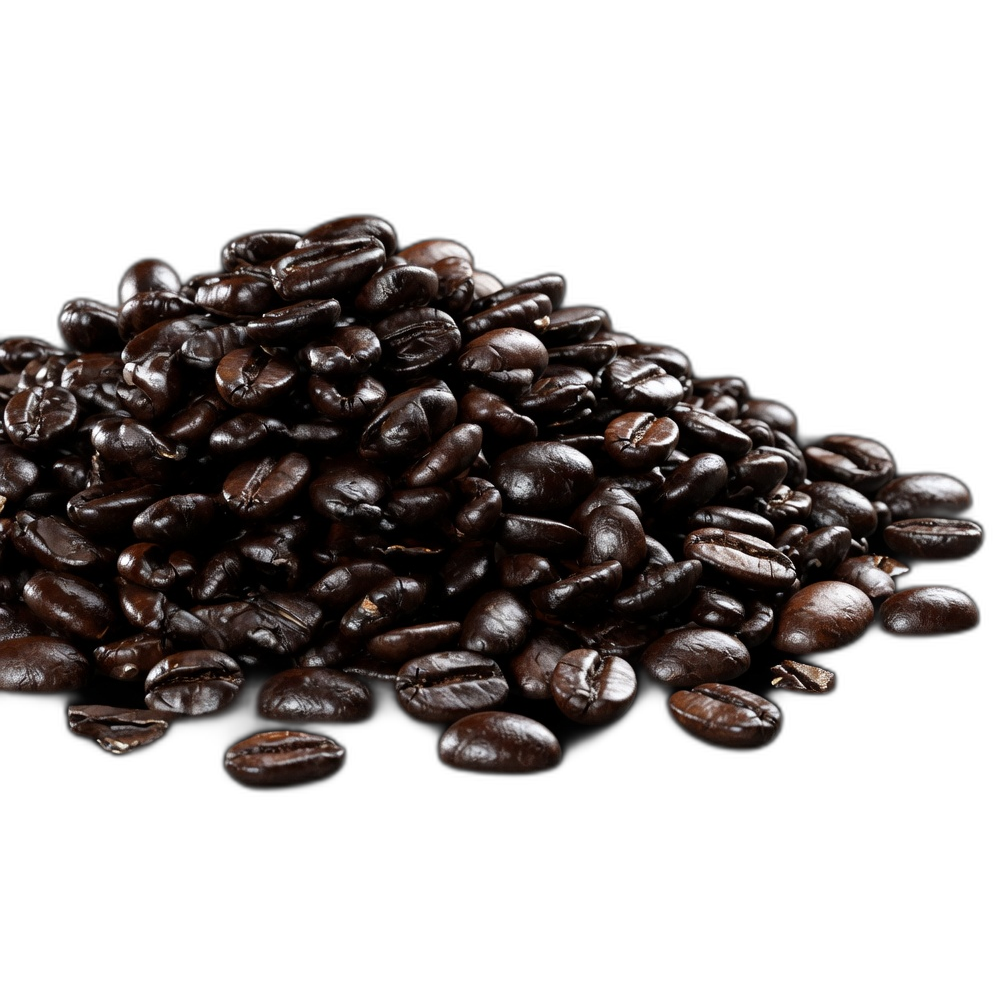
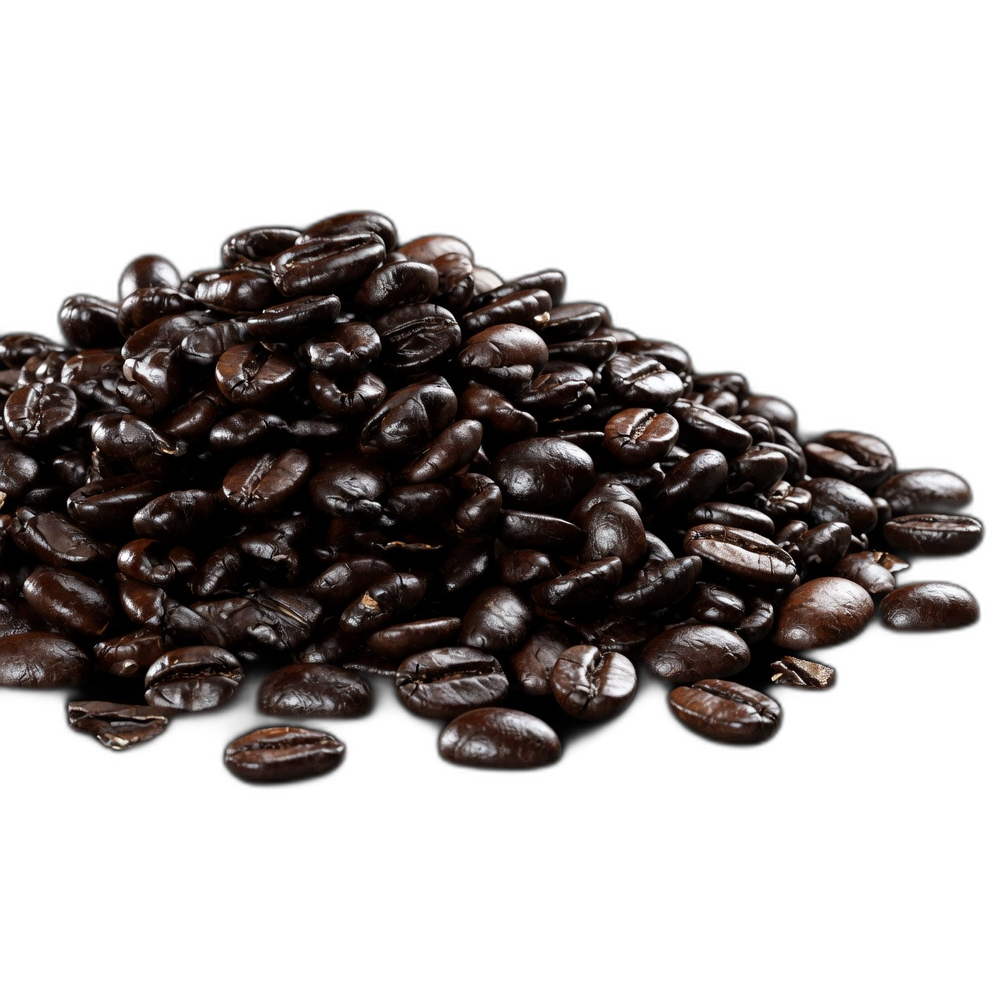
Keep energy props on one ring and stop coffee clipping.
Coffee, wheat and soy share a single ellipse around the barrel at the same speed. The pile stays inside the right rail.

Changed region(s): [[0.0, 0.1864, 0.994, 0.8076]]

diff --git a/app/globals.css b/app/globals.css
@@ -3810,10 +3810,12 @@ a {
   justify-content: center;
   width: 100%;
   min-height: var(--component-energy-field-well-height);
+  overflow: visible;
 }
 
 .ui-energy-well {
   width: min(100%, var(--component-energy-field-well-width));
+  overflow: visible;
   transform: perspective(var(--component-energy-field-grid-perspective))
     rotateX(var(--well-x, 0deg)) rotateY(var(--well-y, 0deg));
   transform-style: preserve-3d;
@@ -3895,66 +3897,49 @@ a {
 
 .ui-energy-well__sat {
   position: absolute;
-  inset: 0;
+  left: 0;
+  top: 0;
+  width: var(--component-energy-field-size-lg);
+  height: var(--component-energy-field-size-lg);
+  offset-path: ellipse(34% 20% at 50% 54%);
   offset-rotate: 0deg;
   offset-anchor: center;
-  animation: ui-energy-orbit var(--orbit-dur, 24s) linear var(--orbit-delay, 0s) infinite;
-  animation-direction: var(--orbit-dir, normal);
+  animation: ui-energy-orbit var(--component-energy-field-ticker-duration) linear var(--orbit-delay, 0s) infinite;
   filter: drop-shadow(var(--component-energy-field-shadow));
 }
 
-.ui-energy-well__sat img {
-  animation: ui-energy-sat-sway var(--component-energy-field-duration-drift) var(--motion-easing-standard) infinite;
-}
-
-.ui-energy-well__sat--coffee {
-  width: var(--component-energy-field-size-xl);
-  height: var(--component-energy-field-size-xl);
-  offset-path: ellipse(54% 34% at 50% 52%);
-}
-
-.ui-energy-well__sat--wheat {
-  width: var(--component-energy-field-size-lg);
-  height: var(--component-energy-field-size-lg);
-  offset-path: ellipse(46% 40% at 50% 48%);
-}
-
+.ui-energy-well__sat--coffee,
+.ui-energy-well__sat--wheat,
 .ui-energy-well__sat--soy {
   width: var(--component-energy-field-size-lg);
   height: var(--component-energy-field-size-lg);
-  offset-path: ellipse(40% 22% at 50% 58%);
 }
 
 @keyframes ui-energy-orbit {
   0% {
     offset-distance: 0%;
-    transform: scale(0.9);
+    transform: scale(0.94);
     z-index: 2;
-    opacity: 0.92;
   }
   25% {
     offset-distance: 25%;
-    transform: scale(1.12);
+    transform: scale(1.04);
     z-index: 4;
-    opacity: 1;
   }
   50% {
     offset-distance: 50%;
-    transform: scale(0.88);
+    transform: scale(0.94);
     z-index: 2;
-    opacity: 0.9;
   }
   75% {
     offset-distance: 75%;
-    transform: scale(0.62);
+    transform: scale(0.78);
     z-index: 1;
-    opacity: 0.72;
   }
   100% {
     offset-distance: 100%;
-    transform: scale(0.9);
+    transform: scale(0.94);
     z-index: 2;
-    opacity: 0.92;
   }
 }
 
@@ -3965,16 +3950,6 @@ a {
   }
   50% {
     transform: translate(-50%, -50%) rotate(2deg) translateY(calc(var(--component-energy-field-float) * -0.45));
-  }
-}
-
-@keyframes ui-energy-sat-sway {
-  0%,
-  100% {
-    transform: rotate(-6deg);
-  }
-  50% {
-    transform: rotate(8deg);
   }
 }
 
@@ -5364,15 +5339,15 @@ a {
   }
 
   .ui-energy-well__sat--coffee {
-    offset-distance: 12%;
+    offset-distance: 0%;
   }
 
   .ui-energy-well__sat--wheat {
-    offset-distance: 58%;
+    offset-distance: 33%;
   }
 
   .ui-energy-well__sat--soy {
-    offset-distance: 82%;
+    offset-distance: 66%;
   }
 
   .ui-coin-field__coin {
@@ -5762,15 +5737,9 @@ a {
     height: var(--component-energy-field-size-xl);
   }
 
-  .ui-energy-well__sat--coffee {
+  .ui-energy-well__sat {
     width: var(--component-energy-field-size-sm);
     height: var(--component-energy-field-size-sm);
-  }
-
-  .ui-energy-well__sat--wheat,
-  .ui-energy-well__sat--soy {
-    width: var(--component-energy-field-size-xs);
-    height: var(--component-energy-field-size-xs);
   }
 
   .ui-energy-field__orb {

diff --git a/components/ui/EnergyField.tsx b/components/ui/EnergyField.tsx
@@ -7,25 +7,19 @@ const SATELLITES = [
     id: "coffee",
     src: "/images/energy/coffee-v2.png",
     label: "Coffee",
-    duration: "22s",
     delay: "0s",
-    dir: "normal",
   },
   {
     id: "wheat",
     src: "/images/energy/wheat-v2.png",
     label: "Wheat",
-    duration: "30s",
-    delay: "-10s",
-    dir: "reverse",
+    delay: "-8s",
   },
   {
     id: "soy",
     src: "/images/energy/soy-v2.png",
     label: "Soybeans",
-    duration: "26s",
-    delay: "-17s",
-    dir: "normal",
+    delay: "-16s",
   },
 ] as const;
 
@@ -93,9 +87,7 @@ export function EnergyWell() {
             key={item.id}
             className={`ui-energy-well__sat ui-energy-well__sat--${item.id}`}
             style={{
-              ["--orbit-dur" as string]: item.duration,
               ["--orbit-delay" as string]: item.delay,
-              ["--orbit-dir" as string]: item.dir,
             }}
           >
             <img src={item.src} alt="" width={320} height={320} draggable={false} />

diff --git a/design-system/CHANGELOG.md b/design-system/CHANGELOG.md
@@ -1,5 +1,9 @@
 # Design system changelog
 
+## 2026-08-18 — Energy orbit is one ring, no right-edge crop
+
+- Coffee / wheat / soy share one ellipse around the barrel, same speed, even spacing. Coffee stays inside the rail.
+
 ## 2026-08-18 — Energy orbit: coffee instead of gas cylinder
 
 - Propane tank dropped from the hero still-life. Coffee beans (`coffee-v2.png`) take that orbit. Barrel + wheat + soy stay.
